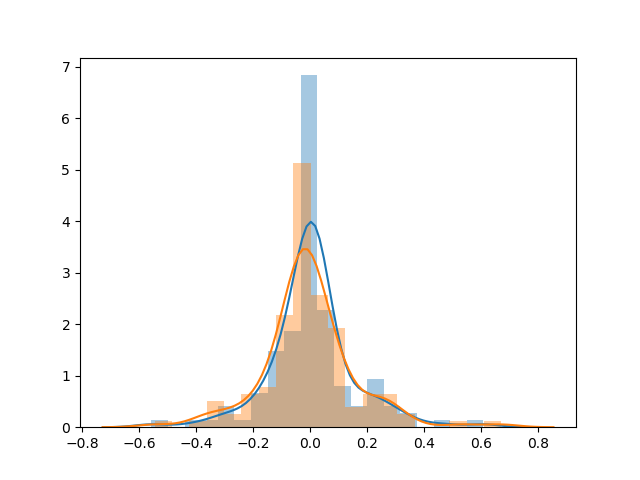
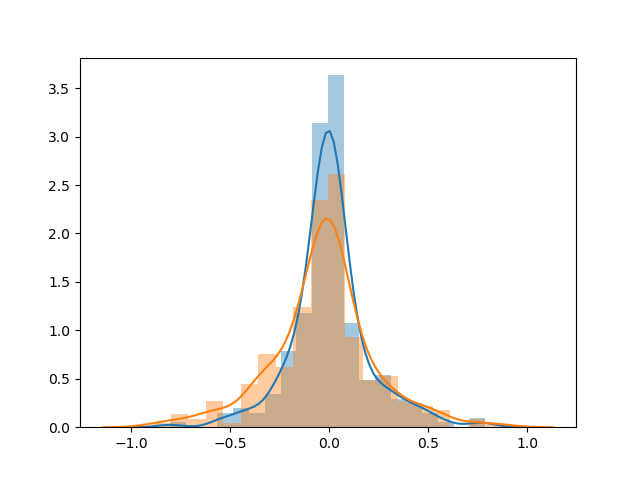
update

diff --git a/scripts/tools_for_VAE/tools_for_VAE/generator.py b/scripts/tools_for_VAE/tools_for_VAE/generator.py
@@ -299,6 +299,13 @@ def calc_lensed_ellipticity_2(es1, es2, gamma1, gamma2, kappa):
     e = (es + g) / (1.0 + g.conjugate()*es) # lensed ellipticity
     return np.imag(e)
 
+def calc_lensed_ellipticity(es1, es2, gamma1, gamma2, kappa):
+    gamma = gamma1 + gamma2*1j # shear (as a complex number)
+    es =   es1 + es2*1j # intrinsic ellipticity (as a complex number)
+    g = gamma / (1.0 - kappa) # reduced shear
+    e = (es + g) / (1.0 + g.conjugate()*es) # lensed ellipticity
+    return np.absolute(e)
+
 
 class BatchGenerator_dc2(tensorflow.keras.utils.Sequence):
     """
@@ -396,13 +403,17 @@ class BatchGenerator_dc2(tensorflow.keras.utils.Sequence):
         shear_1 = np.array(new_data['shear_1'][indices])
         shear_2 = np.array(new_data['shear_2'][indices])
         convergence = np.array(new_data['convergence'][indices])
+        
+        ellipticity = calc_lensed_ellipticity(ell_1, ell_2, shear_1, shear_2, convergence)
+        ellipticity_conversion = lambda e: 2*e / (1.0+ellipticity[:len(e)]*ellipticity[:len(e)])
 
-        ellipticity_1 = calc_lensed_ellipticity_1(ell_1, ell_2, shear_1, shear_2, convergence)
-        ellipticity_2 = calc_lensed_ellipticity_2(ell_1, ell_2, shear_1, shear_2, convergence)
-        ellipticity_conversion = lambda e: 2*e / (1.0+e*e)
+        ellipticity_1 = ellipticity_conversion(calc_lensed_ellipticity_1(ell_1, ell_2, shear_1, shear_2, convergence))
+        ellipticity_2 = ellipticity_conversion(calc_lensed_ellipticity_2(ell_1, ell_2, shear_1, shear_2, convergence))
+        #ellipticity_1 = calc_lensed_ellipticity_1(ell_1, ell_2, shear_1, shear_2, convergence)
+        #ellipticity_2 = calc_lensed_ellipticity_2(ell_1, ell_2, shear_1, shear_2, convergence)
         
         ############
-        data_gen = pd.read_csv('/sps/lsst/users/barcelin/data/dc2_test/training_mag_24.5/1_img_data.csv')
+        data_gen = pd.read_csv('/sps/lsst/users/barcelin/data/dc2_test/training_2/1_img_data.csv')
         ell_1_test = np.array(data_gen['e1'])
         ell_2_test = np.array(data_gen['e2'])
         shear_1_test = np.array(data_gen['shear_1'])
@@ -411,10 +422,10 @@ class BatchGenerator_dc2(tensorflow.keras.utils.Sequence):
 
         ellipticity_1_test = calc_lensed_ellipticity_1(ell_1_test, ell_2_test, shear_1_test, shear_2_test, convergence_test)
         ellipticity_2_test = calc_lensed_ellipticity_2(ell_1_test, ell_2_test, shear_1_test, shear_2_test, convergence_test)
-        quantile_transformer_1 = preprocessing.QuantileTransformer(random_state=0) #output_distribution='normal',
+        quantile_transformer_1 = preprocessing.QuantileTransformer(output_distribution='normal', random_state=0) #
         #quantile_transformer_1 = quantile_transformer_1.fit(ellipticity_conversion(ellipticity_1_test).reshape(-1, 1))
         quantile_transformer_1 = quantile_transformer_1.fit(ellipticity_1_test.reshape(-1, 1))
-        quantile_transformer_2 = preprocessing.QuantileTransformer(random_state=0) #output_distribution='normal',
+        quantile_transformer_2 = preprocessing.QuantileTransformer(output_distribution='normal', random_state=0) #output_distribution='normal',
         #quantile_transformer_2 = quantile_transformer_2.fit(ellipticity_conversion(ellipticity_2_test).reshape(-1, 1))
         quantile_transformer_2 = quantile_transformer_2.fit(ellipticity_2_test.reshape(-1, 1))
 
@@ -429,33 +440,46 @@ class BatchGenerator_dc2(tensorflow.keras.utils.Sequence):
         #     if k == 1: 
         #         X_1[0:int(self.batch_size/4)] = np.flip(x_1[0:int(self.batch_size/4)], axis=2)
         #         X_2[0:int(self.batch_size/4)] = np.flip(x_2[0:int(self.batch_size/4)], axis=2)
-        #         y[0:int(self.batch_size/4),0] = -ellipticity_conversion(ellipticity_1[0:int(self.batch_size/4)]) # sign changed
-        #         y[0:int(self.batch_size/4),1] = -ellipticity_conversion(ellipticity_2[0:int(self.batch_size/4)])
+        #         y[0:int(self.batch_size/4),0] = +(ellipticity_1[0:int(self.batch_size/4)]) 
+        #         y[0:int(self.batch_size/4),1] = -(ellipticity_2[0:int(self.batch_size/4)])
         #     elif k == 2:
         #         X_1[1*int(self.batch_size/4):2*int(self.batch_size/4)] = np.swapaxes(x_1[0:int(self.batch_size/4)], 2, 1)
         #         X_2[1*int(self.batch_size/4):2*int(self.batch_size/4)] = np.swapaxes(x_2[0:int(self.batch_size/4)], 2, 1)
-        #         y[1*int(self.batch_size/4):2*int(self.batch_size/4),0] = +ellipticity_conversion(ellipticity_1[0:int(self.batch_size/4)])
-        #         y[1*int(self.batch_size/4):2*int(self.batch_size/4),1] = +ellipticity_conversion(ellipticity_2[0:int(self.batch_size/4)])
+        #         y[1*int(self.batch_size/4):2*int(self.batch_size/4),0] = -(ellipticity_1[0:int(self.batch_size/4)])
+        #         y[1*int(self.batch_size/4):2*int(self.batch_size/4),1] = +(ellipticity_2[0:int(self.batch_size/4)])
         #     elif k == 3:
         #         X_1[2*int(self.batch_size/4):3*int(self.batch_size/4)] = np.swapaxes(np.flip(x_1[0:int(self.batch_size/4)], axis=2), 2, 1)
         #         X_2[2*int(self.batch_size/4):3*int(self.batch_size/4)] = np.swapaxes(np.flip(x_2[0:int(self.batch_size/4)], axis=2), 2, 1)
-        #         y[2*int(self.batch_size/4):3*int(self.batch_size/4),0] = +ellipticity_conversion(ellipticity_1[0:int(self.batch_size/4)])
-        #         y[2*int(self.batch_size/4):3*int(self.batch_size/4),1] = -ellipticity_conversion(ellipticity_2[0:int(self.batch_size/4)])
+        #         y[2*int(self.batch_size/4):3*int(self.batch_size/4),0] = -(ellipticity_1[0:int(self.batch_size/4)])
+        #         y[2*int(self.batch_size/4):3*int(self.batch_size/4),1] = -(ellipticity_2[0:int(self.batch_size/4)])
         #     else:
         #         X_1[3*int(self.batch_size/4):4*int(self.batch_size/4)] = x_1[0:int(self.batch_size/4)]
         #         X_2[3*int(self.batch_size/4):4*int(self.batch_size/4)] = x_2[0:int(self.batch_size/4)]
-        #         y[3*int(self.batch_size/4):4*int(self.batch_size/4),0] = -ellipticity_conversion(ellipticity_1[0:int(self.batch_size/4)])
-        #         y[3*int(self.batch_size/4):4*int(self.batch_size/4),1] = +ellipticity_conversion(ellipticity_2[0:int(self.batch_size/4)])
+        #         y[3*int(self.batch_size/4):4*int(self.batch_size/4),0] = +(ellipticity_1[0:int(self.batch_size/4)])
+        #         y[3*int(self.batch_size/4):4*int(self.batch_size/4),1] = +(ellipticity_2[0:int(self.batch_size/4)])
         # x_1 = X_1
         # x_2 = X_2
-        # y[:,0]=quantile_transformer_1.transform(y[:,0].reshape(-1, 1))[:,0]
-        # y[:,1]=quantile_transformer_2.transform(y[:,1].reshape(-1, 1))[:,0]
 
 
         y = np.zeros((self.batch_size, 2))
-         #  flip : flipping the image array
+        #flip : flipping the image array
         rand = np.random.randint(4)
         
+        # ####### Test of normalization
+        # I = [3.4725035028144715, 
+        # 4.712976415619254,
+        # 7.635940959954262,
+        # 11.900790692928434,
+        # 13.827042811599373,
+        # 13.843257184934616]
+        # beta = 20
+
+        # bands = [0,1,2,3,4,5]
+        # #for i in range (len(x_1)):
+        # for ib, b in enumerate(bands):
+        #     x_1[:,:,:,b] = np.tanh(np.arcsinh(x_1[:,:,:,b]/(I[b]/beta)))
+        # ########
+
         if rand == 1: 
             x_1 = np.flip(x_1, axis=2)
             x_2 = np.flip(x_2, axis=2)

diff --git a/scripts/parameter_estimation/param_estimation_dc2.py b/scripts/parameter_estimation/param_estimation_dc2.py
@@ -26,7 +26,7 @@ from wandb.keras import WandbCallback
 #wandb.init()
 ######## Parameters
 nb_of_bands = 6#1
-batch_size = 128
+batch_size = 256
 
 input_shape = (59, 59, nb_of_bands)
 hidden_dim = 256
@@ -38,7 +38,7 @@ kernels = [3,3,3,3]#[3,3,3,3]##,3]
 conv_activation = None
 dense_activation = None
 
-steps_per_epoch = int(40000/batch_size)
+steps_per_epoch = int(80000/batch_size)
 validation_steps = int(10000/batch_size)
 
 bands = [0,1,2,3,4,5]
@@ -47,9 +47,9 @@ bands = [0,1,2,3,4,5]
 #images_dir = '/sps/lsst/users/barcelin/data/TFP/GalSim_COSMOS/blended_galaxies/random/'
 images_dir = '/pbs/home/b/barcelin/sps_link/data/dc2_test/'
 
-list_of_samples = [x for x in utils.listdir_fullpath(os.path.join(images_dir,'training_mag_24.5')) if x.endswith('img_sample.npy')][:4]
-list_of_samples_val = [x for x in utils.listdir_fullpath(os.path.join(images_dir,'validation_mag_24.5')) if x.endswith('img_sample.npy')]
-list_of_samples_test = [x for x in utils.listdir_fullpath(os.path.join(images_dir,'test_mag_24.5')) if x.endswith('img_sample.npy')]
+list_of_samples = [x for x in utils.listdir_fullpath(os.path.join(images_dir,'training_mag_24.5')) if x.endswith('img_sample.npy')]#mag_24.5
+list_of_samples_val = [x for x in utils.listdir_fullpath(os.path.join(images_dir,'validation_mag_24.5')) if x.endswith('img_sample.npy')]#mag_24.5
+list_of_samples_test = [x for x in utils.listdir_fullpath(os.path.join(images_dir,'test_mag_24.5')) if x.endswith('img_sample.npy')]#mag_24.5
 
 print(list_of_samples)
 print(list_of_samples_val)
@@ -135,7 +135,7 @@ print('construction OK')
 model_choice = 'wo_ls'
 # Without latent space
 if model_choice == 'wo_ls':
-    net = model.create_model(input_shape, latent_dim, hidden_dim, filters, kernels, final_dim, conv_activation=None, dense_activation=None)  #create_model_wo_ls_peak_3
+    net = model.create_model_wo_ls_peak_3(input_shape, latent_dim, hidden_dim, filters, kernels, final_dim, conv_activation=None, dense_activation=None)  #create_model_wo_ls_peak_3
 # Full probabilistic model with reparametrization trick
 if model_choice == 'full_prob_rt':
     net = model.create_model_prob_rt_peak(input_shape, latent_dim, hidden_dim, filters, kernels, final_dim, conv_activation=None, dense_activation=None)
@@ -159,7 +159,23 @@ if model_choice == 'full_prob_rt' or model_choice == 'full_prob_flipout':
     negative_log_likelihood = lambda x, rv_x: -rv_x.log_prob(x)+ kl *(K.get_value(alpha)-1)
 
 else:
-    negative_log_likelihood = lambda x, rv_x: -rv_x.log_prob(x)
+    #@tf.function
+    def mean_pred(y_true, y_pred):
+        mse = tf.keras.losses.MeanSquaredError()
+        mae = tf.keras.losses.MeanAbsoluteError()
+        msle = tf.keras.losses.MeanSquaredLogarithmicError()
+        r = int(batch_size/4)
+        return (msle(4*y_true[:r,0], y_pred.mean()[:r,0]-y_pred.mean()[r:2*r,0]-y_pred.mean()[2*r:3*r,0]+y_pred.mean()[3*r:4*r,0]) + 
+        msle(4*y_true[:r,1], -y_pred.mean()[:r,1]+y_pred.mean()[r:2*r,1]-y_pred.mean()[2*r:3*r,1]+y_pred.mean()[3*r:4*r,1])) #+ 
+        # mae(y_pred.mean()[:r,0], -y_pred.mean()[r:2*r,0]) + mae(-y_pred.mean()[2*r:3*r,0],y_pred.mean()[3*r:4*r,0]) +
+        # mae(y_pred.mean()[:r,0], -y_pred.mean()[2*r:3*r,0]) + mae(-y_pred.mean()[2*r:3*r,0],-y_pred.mean()[1*r:2*r,0])+
+        # mae(y_pred.mean()[:r,0], y_pred.mean()[3*r:4*r,0]) + mae(-y_pred.mean()[1*r:2*r,0],y_pred.mean()[3*r:4*r,0]) + 
+        # mae(y_pred.mean()[:r,1], -y_pred.mean()[r:2*r,1]) + mae(-y_pred.mean()[2*r:3*r,1],y_pred.mean()[3*r:4*r,1]) +
+        # mae(y_pred.mean()[:r,1], -y_pred.mean()[2*r:3*r,1]) + mae(-y_pred.mean()[2*r:3*r,1],-y_pred.mean()[1*r:2*r,1])+
+        # mae(y_pred.mean()[:r,1], y_pred.mean()[3*r:4*r,1]) + mae(-y_pred.mean()[1*r:2*r,1],y_pred.mean()[3*r:4*r,1])) #+
+        #K.abs(K.sum(y_pred.mean()[:,0])) + K.abs(K.sum(y_pred.mean()[:,1])))
+
+    negative_log_likelihood = lambda x, rv_x: -rv_x.log_prob(x)# + 1.*mean_pred(x,rv_x)
 
 
 # Custom metrics
@@ -174,21 +190,21 @@ net.compile(optimizer=tf.optimizers.Adam(learning_rate=1e-4),
 
 
 
-#loading_path = '/sps/lsst/users/barcelin/TFP/weights/test_dc2/v5/mse/'#/sps/lsst/users/barcelin/TFP/weights/test_dc2/v2/mse/
-#print(loading_path)
-#latest = tf.train.latest_checkpoint(loading_path)
-#net.load_weights(latest)
+# loading_path = '/sps/lsst/users/barcelin/TFP/weights/test_dc2/v2/mse/'#/sps/lsst/users/barcelin/TFP/weights/test_dc2/v2/mse/
+# print(loading_path)
+# latest = tf.train.latest_checkpoint(loading_path)
+# net.load_weights(latest)
 
 
 # Callbacks
-saving_path = '/sps/lsst/users/barcelin/TFP/weights/test_dc2/v5'
+saving_path = '/sps/lsst/users/barcelin/TFP/weights/test_dc2/v1'
 checkpointer_mse = tf.keras.callbacks.ModelCheckpoint(filepath=saving_path+'/mse/weights_noisy_v4.{epoch:02d}-{val_mean_squared_error:.2f}.ckpt', monitor='val_mean_squared_error', verbose=1, save_best_only=True,save_weights_only=True, mode='min', period=1)#mse en TF2
 checkpointer_loss = tf.keras.callbacks.ModelCheckpoint(filepath=saving_path+'/loss/weights_noisy_v4.{epoch:02d}-{val_loss:.2f}.ckpt', monitor='val_loss', verbose=1, save_best_only=True,save_weights_only=True, mode='min', period=1)
 checkpointer_acc = tf.keras.callbacks.ModelCheckpoint(filepath=saving_path+'/acc/weights_noisy_v4.{epoch:02d}-{val_acc:.2f}.ckpt', monitor='val_acc', verbose=1, save_best_only=True,save_weights_only=True, mode='max', period=1)
 
 alpha_changer = changeAlpha(alpha, net,negative_log_likelihood, kl_metric)
 
-callbacks = [checkpointer_mse, checkpointer_loss, checkpointer_acc]#, alpha_changer]#, WandbCallback()]#, alpha_changer]
+callbacks = [checkpointer_mse, checkpointer_loss, checkpointer_acc]#, alpha_changer]#, alpha_changer]#, WandbCallback()]#, alpha_changer]
 
 
 ######## Train the network
@@ -201,15 +217,12 @@ hist = net.fit(training_ds, epochs=100,
                     validation_data=validation_ds,
                     validation_steps=validation_steps)
 
-saving_path = '/sps/lsst/users/barcelin/TFP/weights/test_dc2/v5'
+saving_path = '/sps/lsst/users/barcelin/TFP/weights/test_dc2/v1'
 net.save_weights(saving_path+'cp-{epoch:04d}.ckpt')
 
-
 #### Plots
-# training
-
 ## REGENERER AVEC NOUVELLES IMAGES ET RENORMALISATION CORRECTE
-loading_path = '/sps/lsst/users/barcelin/TFP/weights/test_dc2/v5/loss/'#test_5
+loading_path = '/sps/lsst/users/barcelin/TFP/weights/test_dc2/v1/mse/'#test_5
 latest = tf.train.latest_checkpoint(loading_path)
 net.load_weights(latest)
 test = test_generator.__getitem__(3)

diff --git a/scripts/generate_dc2_img.py b/scripts/generate_dc2_img.py
@@ -33,7 +33,7 @@ with warnings.catch_warnings():
 # Let's define a magnitude cut
 mag_filters = [
     (np.isfinite, 'mag_r'),
-    'mag_r < 24.5']
+    'mag_r < 26.5']
 
 # Load ra and dec from object, using both of the filters we just defined.
 object_data = gc_obs.get_quantities(['ra', 'dec', 'blendedness', 'snr_r_cModel',
@@ -55,7 +55,7 @@ for ipx in ipix:
 pos_filters=[f'ra >= {min_ra}',f'ra <={max_ra}', f'dec >= {min_dec}', f'dec <= {max_dec}']
 
 # Define a mag cut for truth catalog 
-truth_mag_filters = ['mag_r < 24.5']
+truth_mag_filters = ['mag_r < 26.5']
 
 # Load wanted quantities from truth catalog (https://github.com/LSSTDESC/gcr-catalogs/blob/master/GCRCatalogs/SCHEMA.md)
 quantities = ['galaxy_id', 'ra', 'dec', 
@@ -179,13 +179,13 @@ df['shear_1']=np.array(shear1) # True shear applied
 df['shear_2']=np.array(shear2) # True shear applied
 df['redshift']=np.array(redshift) # Cosmological redshift with line-of-sight motion
 df['redshift_true']=np.array(redshift_true) # Cosmological redshift
-df['blendedness']=np.array(blend)
-df['snr_r']=np.array(snr)
-df['convergence']=np.array(convergence)
-df['e1_hsm_regauss']=np.array(hsm_e1)
-df['e2_hsm_regauss']=np.array(hsm_e2)
-df['mag_r_meas']=np.array(mag_r_meas)
-df['mag_r_true']=np.array(mag_r_true)
+df['blendedness']=np.array(blend) # blendedness
+df['snr_r']=np.array(snr) # Signal to noise ratio in r-band
+df['convergence']=np.array(convergence) # Shear convergence
+df['e1_hsm_regauss']=np.array(hsm_e1) # e1 parameter measured with HSM REGAUSS method
+df['e2_hsm_regauss']=np.array(hsm_e2) # e2 parameter measured with HSM REGAUSS method
+df['mag_r_meas']=np.array(mag_r_meas) # Magnitude measured on image by LSST pipeline
+df['mag_r_true']=np.array(mag_r_true) # Magnitude in input of simulation
 
 # Save the arrays
 np.save('/sps/lsst/users/barcelin/data/dc2_test/'+str(training_test_val)+'/img_sample.npy', img_sample)

diff --git a/scripts/tools_for_VAE/tools_for_VAE/model.py b/scripts/tools_for_VAE/tools_for_VAE/model.py
@@ -231,10 +231,15 @@ def create_model_wo_ls_peak_3(input_shape, latent_dim, hidden_dim, filters, kern
         h = PReLU()(h)
         h = Conv2D(filters[i], (kernels[i],kernels[i]), activation=None, padding='same', strides=(2,2))(h)
         h = PReLU()(h)
+        h = Dropout(0.25)(h)
     h = Flatten()(h)
     h = PReLU()(h)
-    h = Dense(tfp.layers.MultivariateNormalTriL.params_size(final_dim),
-                activation=None)(tf.cast(h,tf.float64))
+    h_1 = Dense(2, activation='tanh')(h)
+    h_2 = Dense(3, activation = None)(h)
+    h_2 = PReLU()(h_2)
+    h = tf.keras.layers.concatenate([h_1,h_2])
+    #h = Dense(tfp.layers.MultivariateNormalTriL.params_size(final_dim),
+    #            activation=None)(h)#(tf.cast(h,tf.float64))
     h = tfp.layers.MultivariateNormalTriL(final_dim)(h)
 
     model = Model([input_layer_1, input_layer_2],h)

diff --git a/scripts/tools_for_VAE/tools_for_VAE/callbacks.py b/scripts/tools_for_VAE/tools_for_VAE/callbacks.py
@@ -28,7 +28,7 @@ class changeAlpha(Callback):
         #self.path = path
         #self.epochs = epochs
     def on_epoch_end(self, alpha, network):
-        stable = 9
+        stable = 1
         #new_alpha = 0.3
         if self.epoch > stable and K.get_value(self.alpha)<1 :
             #if (self.alpha < 1):
